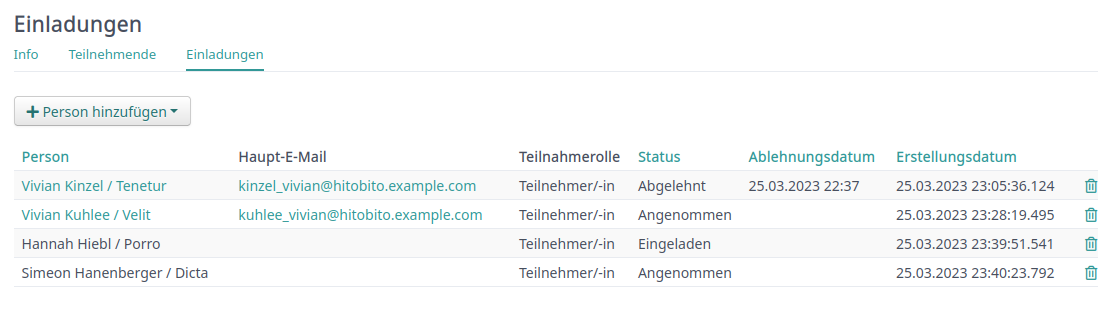
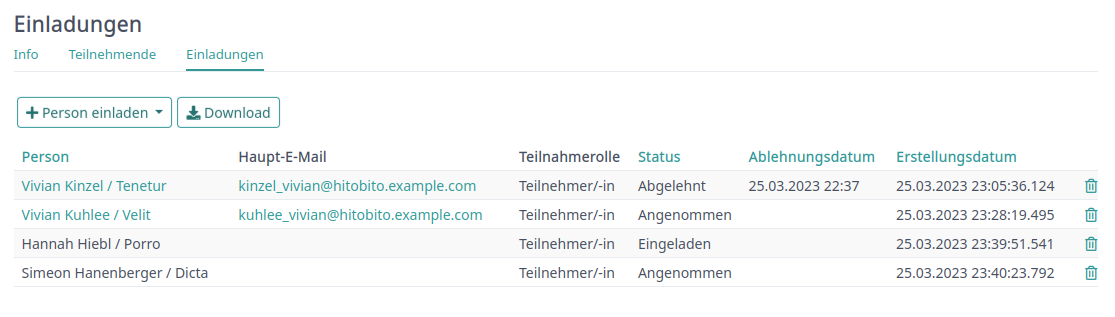
update documentation for events

Changed region(s): [[0.0, 0.2839, 0.2439, 0.4259]]

diff --git a/events.rst b/events.rst
@@ -26,3 +26,9 @@ Die eingeladenen Personen können sich dann auf der Anlass-Seite für den Anlass
 Die eingeladenen Personen erhalten kein automatische Benachrichtigung,
 da die Betroffenen wohl in vielen Fällen (z.B. Sitzungen, Generalversammlung)
 separat ausführlich informiert werden müssen.
+
+
+Über das Personen-Register der anbietenden Gruppe eines Anlasses oder Kurses
+können auch mehrere Personen gleichzeitig hinzugefügt werden.
+
+.. image:: images/invitation_mass-add.png
